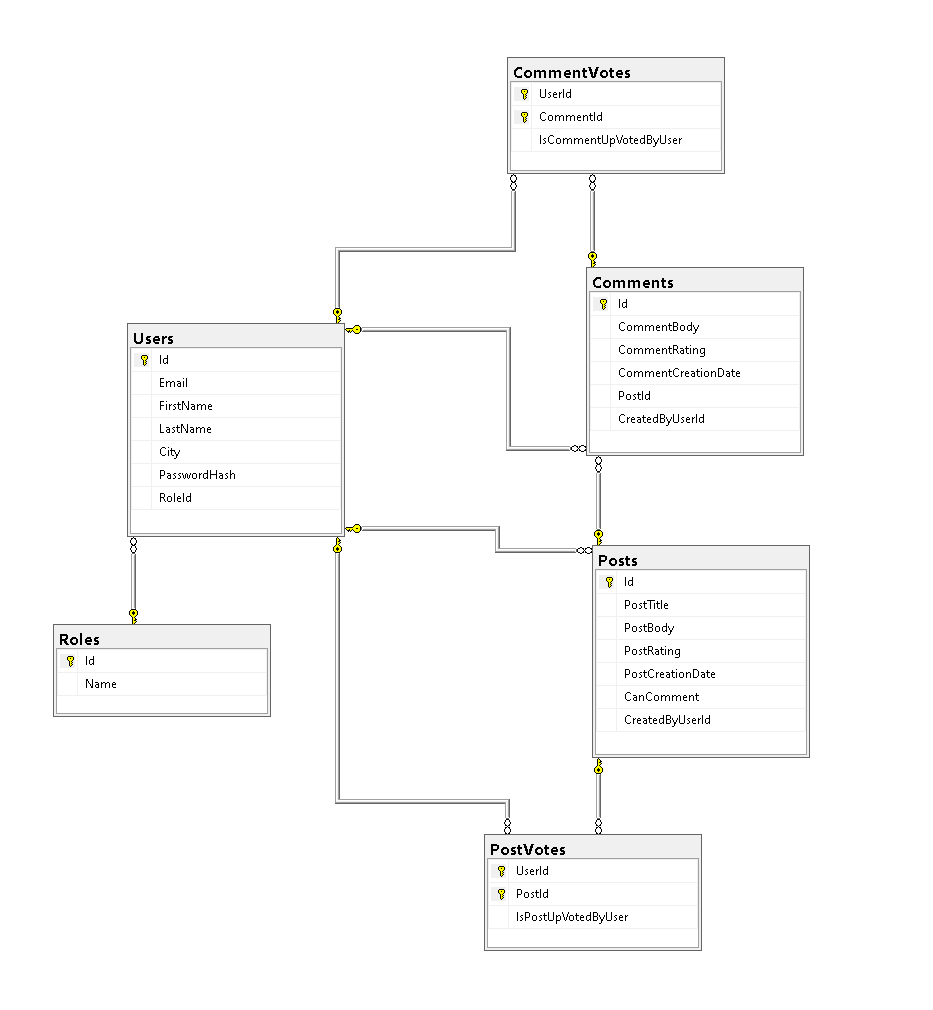
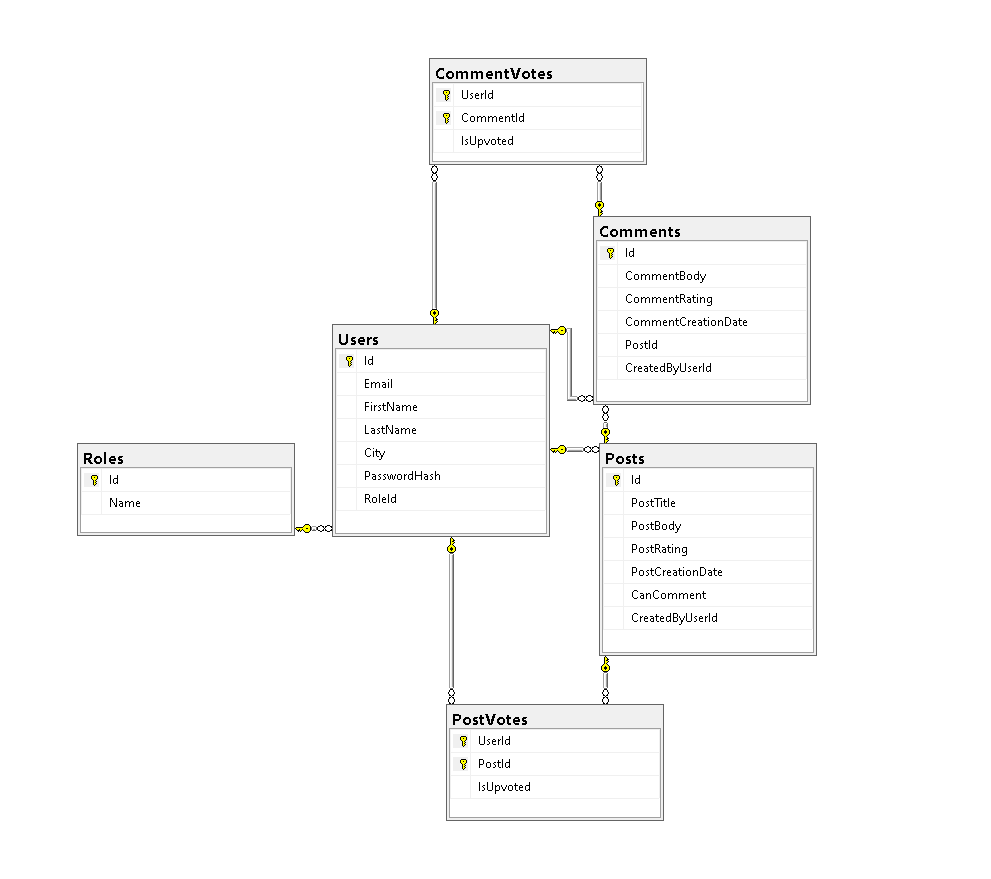
Cosmetic modifications

diff --git a/BlogAPI/Services/CommentService.cs b/BlogAPI/Services/CommentService.cs
@@ -48,14 +48,14 @@ namespace BlogAPI.Services
                 {
                     UserId = user.Value,
                     CommentId = commentId,
-                    IsCommentUpVotedByUser = true
+                    IsUpvoted = true
                 });
                 await _dbContext.SaveChangesAsync();
             }
-            else if (!isCommentVotedByUser.IsCommentUpVotedByUser)
+            else if (!isCommentVotedByUser.IsUpvoted)
             {
                 comment.CommentRating += 2;
-                isCommentVotedByUser.IsCommentUpVotedByUser = true;
+                isCommentVotedByUser.IsUpvoted = true;
                 await _dbContext.SaveChangesAsync();
             }
             else
@@ -84,14 +84,14 @@ namespace BlogAPI.Services
                 {
                     UserId = user.Value,
                     CommentId = commentId,
-                    IsCommentUpVotedByUser = false
+                    IsUpvoted = false
                 });
                 await _dbContext.SaveChangesAsync();
             }
-            else if (isCommentVotedByUser.IsCommentUpVotedByUser)
+            else if (isCommentVotedByUser.IsUpvoted)
             {
                 comment.CommentRating -= 2;
-                isCommentVotedByUser.IsCommentUpVotedByUser = false;
+                isCommentVotedByUser.IsUpvoted = false;
                 await _dbContext.SaveChangesAsync();
             }
             else

diff --git a/BlogAPI/Services/PostService.cs b/BlogAPI/Services/PostService.cs
@@ -44,14 +44,14 @@ namespace BlogAPI.Services
                 {
                     UserId = user.Value,
                     PostId = id,
-                    IsPostUpVotedByUser = true
+                    IsUpvoted = true
                 });
                 await _dbContext.SaveChangesAsync();
             }
-            else if (!isPostVotedByUser.IsPostUpVotedByUser)
+            else if (!isPostVotedByUser.IsUpvoted)
             {
                 post.PostRating += 2;
-                isPostVotedByUser.IsPostUpVotedByUser = true;
+                isPostVotedByUser.IsUpvoted = true;
                 await _dbContext.SaveChangesAsync();
             }
             else
@@ -73,14 +73,14 @@ namespace BlogAPI.Services
                 {
                     UserId = user.Value,
                     PostId = id,
-                    IsPostUpVotedByUser = false
+                    IsUpvoted = false
                 });
                 await _dbContext.SaveChangesAsync();
             }
-            else if (isPostVotedByUser.IsPostUpVotedByUser)
+            else if (isPostVotedByUser.IsUpvoted)
             {
                 post.PostRating -= 2;
-                isPostVotedByUser.IsPostUpVotedByUser = false;
+                isPostVotedByUser.IsUpvoted = false;
                 await _dbContext.SaveChangesAsync();
             }
             else

diff --git a/BlogAPI/Migrations/20220823104933_VotingTableChange.cs b/BlogAPI/Migrations/20220823104933_VotingTableChange.cs
@@ -1,0 +1,35 @@
+using Microsoft.EntityFrameworkCore.Migrations;
+
+#nullable disable
+
+namespace BlogAPI.Migrations
+{
+    public partial class VotingTableChange : Migration
+    {
+        protected override void Up(MigrationBuilder migrationBuilder)
+        {
+            migrationBuilder.RenameColumn(
+                name: "IsPostUpVotedByUser",
+                table: "PostVotes",
+                newName: "IsUpvoted");
+
+            migrationBuilder.RenameColumn(
+                name: "IsCommentUpVotedByUser",
+                table: "CommentVotes",
+                newName: "IsUpvoted");
+        }
+
+        protected override void Down(MigrationBuilder migrationBuilder)
+        {
+            migrationBuilder.RenameColumn(
+                name: "IsUpvoted",
+                table: "PostVotes",
+                newName: "IsPostUpVotedByUser");
+
+            migrationBuilder.RenameColumn(
+                name: "IsUpvoted",
+                table: "CommentVotes",
+                newName: "IsCommentUpVotedByUser");
+        }
+    }
+}

diff --git a/BlogAPI/Migrations/20220823104933_VotingTableChange.Designer.cs b/BlogAPI/Migrations/20220823104933_VotingTableChange.Designer.cs
@@ -4,6 +4,7 @@ using BlogAPI.Entities;
 using Microsoft.EntityFrameworkCore;
 using Microsoft.EntityFrameworkCore.Infrastructure;
 using Microsoft.EntityFrameworkCore.Metadata;
+using Microsoft.EntityFrameworkCore.Migrations;
 using Microsoft.EntityFrameworkCore.Storage.ValueConversion;
 
 #nullable disable
@@ -11,9 +12,10 @@ using Microsoft.EntityFrameworkCore.Storage.ValueConversion;
 namespace BlogAPI.Migrations
 {
     [DbContext(typeof(BlogDbContext))]
-    partial class BlogDbContextModelSnapshot : ModelSnapshot
+    [Migration("20220823104933_VotingTableChange")]
+    partial class VotingTableChange
     {
-        protected override void BuildModel(ModelBuilder modelBuilder)
+        protected override void BuildTargetModel(ModelBuilder modelBuilder)
         {
 #pragma warning disable 612, 618
             modelBuilder

diff --git a/BlogAPI/Controllers/AccountController.cs b/BlogAPI/Controllers/AccountController.cs
@@ -33,14 +33,14 @@ namespace BlogAPI.Controllers
             return Ok();
         }
 
-        [HttpPut("editdetails/{userId}")]
+        [HttpPut("edit/{userId}")]
         public async Task<IActionResult> EditUserDetailsAsync([FromBody] EditUserDetailsDto dto, [FromRoute] int userId)
         {
             await _accountService.EditUserDetailsAsync(dto, userId);
             return Ok();
         }
 
-        [HttpDelete("deleteaccount/{userId}")]
+        [HttpDelete("delete/{userId}")]
         public async Task<IActionResult> DeleteMyAccountAsync([FromRoute] int userId)
         {
             await _accountService.DeleteMyAccountAsync(userId);

diff --git a/BlogAPI/Entities/CommentVote.cs b/BlogAPI/Entities/CommentVote.cs
@@ -4,7 +4,7 @@
     {
         public int UserId { get; set; }
         public int CommentId { get; set; }
-        public bool IsCommentUpVotedByUser { get; set; }
+        public bool IsUpvoted { get; set; }
         public virtual User User { get; set; }
         public virtual Comment Comment { get; set; }
     }

diff --git a/BlogAPI/Entities/PostVote.cs b/BlogAPI/Entities/PostVote.cs
@@ -4,7 +4,7 @@
     {
         public int UserId { get; set; }
         public int PostId { get; set; }
-        public bool IsPostUpVotedByUser { get; set; }
+        public bool IsUpvoted { get; set; }
         public virtual User User { get; set; }
         public virtual Post Post { get; set; }
     }
